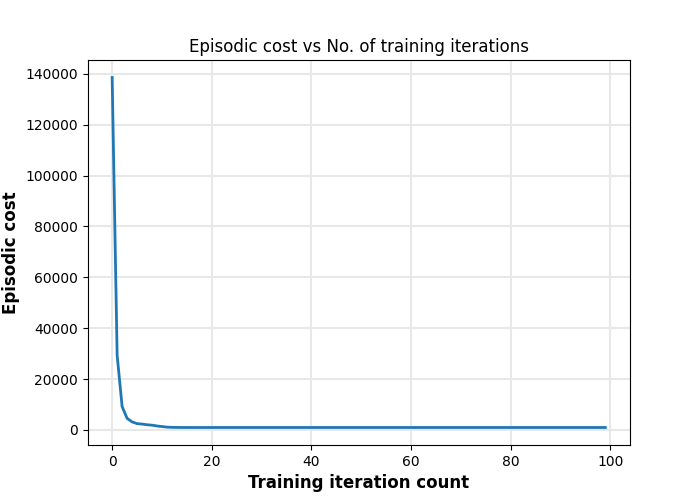
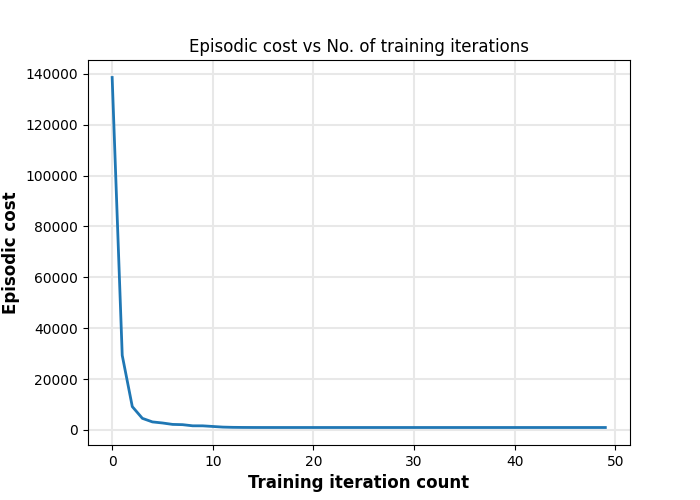
minor corrections

diff --git a/examples/inverted_pendulum_mujoco/run_pendulum_ilqr.py b/examples/inverted_pendulum_mujoco/run_pendulum_ilqr.py
@@ -48,7 +48,7 @@ if __name__=="__main__":
     print('Goal phase : \n', final_state)
 	
     # No. of ILQR iterations to run
-    n_iterations = 100
+    n_iterations = 50
 
     # Create model instance
     run_pendulum = RunPendulum(state_dimension, control_dimension, dt, MODEL)
@@ -64,12 +64,5 @@ if __name__=="__main__":
     ilqr.save_cost(path_to_cost_file)
 
     # Check and Simulate the obtained policy
-    # print
     run_pendulum.simulate_pendulum(y_init = init_state.flatten(), u = ilqr.U.flatten(), horizon=horizon)
     run_pendulum.draw_figure(path_to_traj_fig)
-
-    # Test sys_id
-    '''x_t = np.array([2.0,0.0]).reshape(state_dimension,1)
-    u_t = np.array([0]).reshape(control_dimension,1)
-    AB = model.sys_id(x_t,u_t)
-    print(AB)'''

diff --git a/examples/inverted_pendulum_mujoco/sim_pendulum.py b/examples/inverted_pendulum_mujoco/sim_pendulum.py
@@ -154,8 +154,8 @@ if __name__ == '__main__':
     file_loc = cwd / "examples/inverted_pendulum_mujoco"
     file_loc.mkdir(parents=True, exist_ok=True)
     
-    model_path = file_loc / "pendulum.xml"
-    save_path = file_loc / "pendulum_trajectory.png"
+    model_path = file_loc / "models/pendulum.xml"
+    save_path = file_loc / "models/pendulum_trajectory.png"
     
     # CartPole parameters
     nx, nu, dt = 2, 1, 0.1
